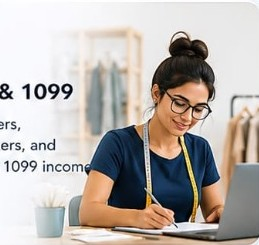
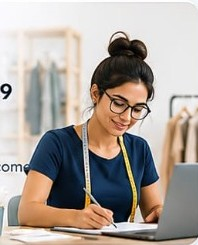
feat(home): use clean human subject crops as card backgrounds with words displayed in front

diff --git a/src/pages/public/Home.css b/src/pages/public/Home.css
@@ -1058,9 +1058,10 @@
   }
 }
 
+
 /* ========================================================
    Reference Card Layout Matching Exact Reference Image
-   for "Why Choose" and "Who We Help"
+   Human placed as background with words in front
    ======================================================== */
 .home-reference-container {
   max-width: 1240px;
@@ -1117,13 +1118,12 @@
   border: 1px solid #dbeafe;
   border-radius: 20px;
   box-shadow: 0 4px 20px rgba(15, 23, 42, 0.04);
-  display: flex;
-  justify-content: space-between;
-  align-items: stretch;
-  overflow: hidden;
   position: relative;
+  overflow: hidden;
+  display: flex;
+  align-items: center;
+  min-height: 225px;
   transition: all 0.25s cubic-bezier(0.16, 1, 0.3, 1);
-  min-height: 220px;
 }
 
 .reference-split-card:hover {
@@ -1132,14 +1132,46 @@
   border-color: #93c5fd;
 }
 
+/* Background Artwork: Human from image placed as background on the right */
+.ref-card-bg-artwork {
+  position: absolute;
+  top: 0;
+  right: 0;
+  bottom: 0;
+  width: 52%;
+  background-size: cover;
+  background-position: right center;
+  background-repeat: no-repeat;
+  pointer-events: none;
+  z-index: 1;
+  transition: transform 0.4s ease;
+}
+
+.reference-split-card:hover .ref-card-bg-artwork {
+  transform: scale(1.03);
+}
+
+/* Soft diffusion gradient from left so text on white card is 100% legible */
+.ref-card-bg-artwork::before {
+  content: '';
+  position: absolute;
+  top: 0;
+  left: 0;
+  bottom: 0;
+  width: 55%;
+  background: linear-gradient(to right, #ffffff 0%, rgba(255, 255, 255, 0.9) 35%, transparent 100%);
+  pointer-events: none;
+}
+
+/* Text Column showing words present in image in front */
 .ref-card-text-col {
-  flex: 1 1 54%;
-  padding: 26px 20px 24px 26px;
+  position: relative;
+  z-index: 2;
+  max-width: 64%;
+  padding: 26px 20px 26px 28px;
   display: flex;
   flex-direction: column;
   justify-content: center;
-  z-index: 2;
-  position: relative;
 }
 
 .ref-card-icon-bubble {
@@ -1177,40 +1209,6 @@
   margin: 0;
 }
 
-.ref-card-image-col {
-  flex: 0 0 46%;
-  position: relative;
-  overflow: hidden;
-  display: flex;
-  align-items: center;
-  justify-content: flex-end;
-  background-color: #f8fafc;
-}
-
-.ref-card-img {
-  width: 100%;
-  height: 100%;
-  object-fit: cover;
-  object-position: center;
-  display: block;
-  transition: transform 0.4s ease;
-}
-
-.reference-split-card:hover .ref-card-img {
-  transform: scale(1.03);
-}
-
-.ref-card-img-fade {
-  position: absolute;
-  top: 0;
-  left: 0;
-  width: 50%;
-  height: 100%;
-  background: linear-gradient(to right, #ffffff 0%, rgba(255, 255, 255, 0.85) 30%, transparent 100%);
-  pointer-events: none;
-  z-index: 1;
-}
-
 .who-we-help-section {
   padding: 76px 24px;
   background-color: #f4f8fc;
@@ -1222,22 +1220,31 @@
     grid-template-columns: 1fr;
     gap: 20px;
   }
+  .ref-card-text-col {
+    max-width: 70%;
+  }
 }
 
-@media (max-width: 560px) {
+@media (max-width: 600px) {
   .reference-split-card {
-    flex-direction: column;
     min-height: auto;
+    flex-direction: column;
+    align-items: flex-start;
   }
   .ref-card-text-col {
-    padding: 22px 20px 16px;
+    max-width: 100%;
+    padding: 24px 20px 180px 20px;
   }
-  .ref-card-image-col {
-    height: 170px;
+  .ref-card-bg-artwork {
     width: 100%;
-    flex: none;
+    height: 180px;
+    top: auto;
+    bottom: 0;
+    left: 0;
+    right: 0;
+    background-position: center bottom;
   }
-  .ref-card-img-fade {
+  .ref-card-bg-artwork::before {
     width: 100%;
     height: 50px;
     top: 0;

diff --git a/src/pages/public/Home.jsx b/src/pages/public/Home.jsx
@@ -267,20 +267,18 @@ export default function Home() {
           <div className="reference-cards-grid">
             {whyChooseUs.map((item, idx) => (
               <div className="reference-split-card" key={idx}>
+                <div 
+                  className="ref-card-bg-artwork" 
+                  style={{ backgroundImage: `url(${item.image})` }} 
+                  role="img" 
+                  aria-label={item.imageAlt} 
+                />
                 <div className="ref-card-text-col">
                   <div className="ref-card-icon-bubble">
                     {item.icon}
                   </div>
                   <h3 className="ref-card-title">{item.title}</h3>
                   <p className="ref-card-desc">{item.desc}</p>
-                </div>
-                <div className="ref-card-image-col">
-                  <img
-                    src={item.image}
-                    alt={item.imageAlt}
-                    className="ref-card-img"
-                  />
-                  <div className="ref-card-img-fade"></div>
                 </div>
               </div>
             ))}
@@ -311,20 +309,18 @@ export default function Home() {
           <div className="reference-cards-grid">
             {whoWeHelp.map((item, idx) => (
               <div className="reference-split-card" key={idx}>
+                <div 
+                  className="ref-card-bg-artwork" 
+                  style={{ backgroundImage: `url(${item.image})` }} 
+                  role="img" 
+                  aria-label={item.imageAlt} 
+                />
                 <div className="ref-card-text-col">
                   <div className="ref-card-icon-bubble">
                     {item.icon}
                   </div>
                   <h3 className="ref-card-title">{item.title}</h3>
                   <p className="ref-card-desc">{item.desc}</p>
-                </div>
-                <div className="ref-card-image-col">
-                  <img
-                    src={item.image}
-                    alt={item.imageAlt}
-                    className="ref-card-img"
-                  />
-                  <div className="ref-card-img-fade"></div>
                 </div>
               </div>
             ))}
